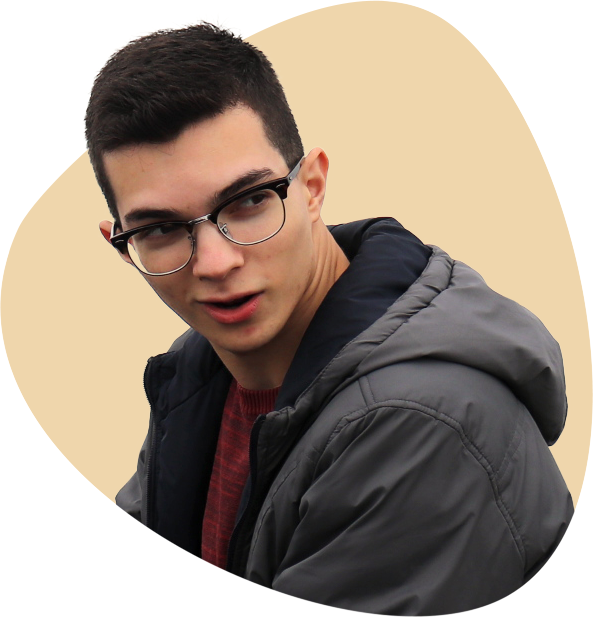
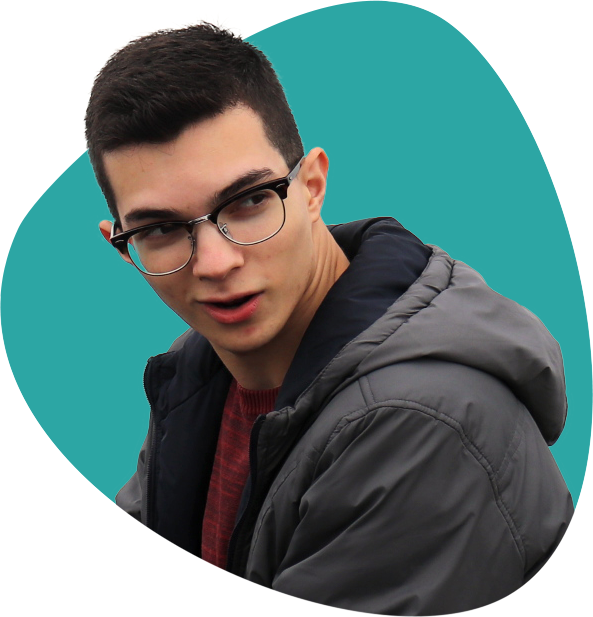
changed palette again

Changed region(s): [[0.3946, 0.0, 1.0, 0.8314], [0.0, 0.2464, 0.3339, 0.8314]]

diff --git a/css/app.css b/css/app.css
@@ -1,2 +1,2 @@
-::-webkit-scrollbar{width:7.5px}::-webkit-scrollbar-track{background:#1E212B}::-webkit-scrollbar-thumb{background:#3d4458;border-radius:100px}header .main-menu{display:flex;align-items:center;justify-content:space-between;padding:0 50px;z-index:2;background:#1E212B;width:100%;height:90px;position:fixed;top:0;transition:.2s ease}@media (max-width: 575px){header .main-menu{padding:0 30px}}@media (min-width: 992px){header .main-menu{padding:0 80px}}header .main-menu.scrolled{filter:drop-shadow(0 0 5px #191b23);height:60px;background:#191b23}header .main-menu .main-menu-left{display:flex;align-items:center;width:100%;justify-content:space-between;height:100%}header .main-menu .main-menu-left *{font-weight:700;height:100%;display:flex;align-items:center}header .main-menu .main-menu-left .main-menu-left-1{margin-right:30px}@media (min-width: 768px){header .main-menu .main-menu-left .main-menu-left-1{margin-right:80px}}header .main-menu .main-menu-left .main-menu-left-1 h1{text-align:left;line-height:1.1rem;font-size:1.2rem}header .main-menu .main-menu-left .main-menu-left-2{display:flex}header .main-menu .main-menu-left .main-menu-left-2 ul{display:flex;grid-gap:30px;font-size:.9rem}header .main-menu .main-menu-left .main-menu-left-2 ul li.active-page,header .main-menu .main-menu-left .main-menu-left-2 ul li:hover{border-top:10px solid #EFD6AC;margin-top:-10px}header .drop-down-menu{display:none;width:100%;height:100vh;position:fixed;top:90px;right:0;z-index:1;background-color:rgba(30,33,43,0.7);transition:.2s ease}header .drop-down-menu.scrolled{top:60px}header .drop-down-menu ul{background-color:#14151c}header .drop-down-menu ul li{font-weight:700;width:100%;display:flex;align-items:center;border-bottom:1px solid #1E212B}header .drop-down-menu ul li a{padding:13px 30px;height:50px;width:100%}header .drop-down-menu ul li:hover{background:#1E212B}header .drop-down-menu.open{display:block}#nav-icon1,#nav-icon2,.hamburger,#nav-icon4{width:30px;height:22.5px;position:relative;-webkit-transform:rotate(0deg);-moz-transform:rotate(0deg);-o-transform:rotate(0deg);transform:rotate(0deg);-webkit-transition:.5s ease-in-out;-moz-transition:.5s ease-in-out;-o-transition:.5s ease-in-out;transition:.5s ease-in-out;cursor:pointer}#nav-icon1 span,.hamburger span,#nav-icon4 span{display:block;position:absolute;height:4.5px;width:100%;background:#f1f1f1;border-radius:4.5px;opacity:1;left:0;-webkit-transform:rotate(0deg);-moz-transform:rotate(0deg);-o-transform:rotate(0deg);transform:rotate(0deg);-webkit-transition:.25s ease-in-out;-moz-transition:.25s ease-in-out;-o-transition:.25s ease-in-out;transition:.25s ease-in-out}.hamburger span:nth-child(1){top:0px}.hamburger span:nth-child(2),.hamburger span:nth-child(3){top:9px}.hamburger span:nth-child(4){top:18px}.hamburger.open span:nth-child(1){opacity:0}.hamburger.open span:nth-child(2){-webkit-transform:rotate(45deg);-moz-transform:rotate(45deg);-o-transform:rotate(45deg);transform:rotate(45deg)}.hamburger.open span:nth-child(3){-webkit-transform:rotate(-45deg);-moz-transform:rotate(-45deg);-o-transform:rotate(-45deg);transform:rotate(-45deg)}.hamburger.open span:nth-child(4){opacity:0}.hamburger span:nth-child(1),.hamburger span:nth-child(4){transition-delay:.2s}.hamburger.open span:nth-child(1),.hamburger.open span:nth-child(4){transition-delay:0s}footer .inner-footer{display:flex;align-items:center;justify-content:space-between;padding:0 50px;z-index:2;background:#191b23;min-height:60px;font-size:.8rem}@media (max-width: 575px){footer .inner-footer{padding:15px 30px;flex-direction:column}}@media (min-width: 768px){footer .inner-footer{font-size:.9rem}}@media (min-width: 992px){footer .inner-footer{padding:0 80px}}@media (max-width: 575px){footer .inner-footer .signature-wrap{margin-bottom:15px}}footer .inner-footer .signature-wrap #signature{opacity:.2;text-align:center}@media (min-width: 768px){footer .inner-footer .signature-wrap #signature{text-align:left}}footer .inner-footer .other-links{display:flex;flex-direction:row;grid-gap:20px}@media (min-width: 768px){footer .inner-footer .other-links{grid-gap:30px}}footer .inner-footer .other-links a img{height:30px;opacity:.2;transition:ease .2s}footer .inner-footer .other-links a img:hover{opacity:1}@media (max-width: 575px){main .section-wrapper#welcome{padding-top:0;padding-bottom:30px}}@media (min-width: 992px){main .section-wrapper#welcome{padding-top:0;padding-bottom:0}}@media (min-width: 1921px){main .section-wrapper#welcome{padding-top:80px;padding-bottom:80px}}main .section-wrapper#welcome .landing-wrapper{min-height:40vh;align-items:center;display:flex;position:relative}main .section-wrapper#welcome .landing-wrapper .bloo{color:#EFD6AC}main .section-wrapper#welcome .landing-wrapper *{text-align:left}@media (max-width: 575px){main .section-wrapper#welcome .landing-wrapper{align-items:flex-start}}@media (min-width: 992px){main .section-wrapper#welcome .landing-wrapper{height:calc(100vh - 90px)}}@media (min-width: 1921px){main .section-wrapper#welcome .landing-wrapper{height:initial}}main .section-wrapper#welcome .landing-wrapper h1#name{font-size:2rem;line-height:2rem;margin-bottom:10px}@media (min-width: 768px){main .section-wrapper#welcome .landing-wrapper h1#name{font-size:3rem;line-height:3rem}}@media (min-width: 992px){main .section-wrapper#welcome .landing-wrapper h1#name{font-size:4rem;line-height:4rem}}main .section-wrapper#welcome .landing-wrapper a#hire-me div{margin-top:20px;display:inline-block;padding:15px;border-radius:100px;background:#f1f1f1;color:#1E212B;width:120px;text-align:center;font-weight:700;position:relative}@media (min-width: 768px){main .section-wrapper#welcome .landing-wrapper a#hire-me div{padding:20px;width:150px;margin-top:40px}}main .section-wrapper#welcome .landing-wrapper a#hire-me div:hover{background:#EFD6AC}main .section-wrapper#welcome .landing-wrapper a#hire-me div:hover::after{background-color:#EFD6AC}@media (min-width: 992px){main .section-wrapper#welcome .landing-wrapper a#hire-me div::after{position:absolute;content:"";top:50%;left:50%;transform:translate(-50%, -50%);width:100%;height:100%;border-radius:100px;background-color:#f1f1f1;transition:ease;animation:hire-me 2s infinite;z-index:-1}}main .section-wrapper#welcome .landing-wrapper .img-holder{text-align:center;margin:20px 0 40px}@media (min-width: 768px){main .section-wrapper#welcome .landing-wrapper .img-holder{padding-left:40px;margin:initial;text-align:initial}}main .section-wrapper#welcome .landing-wrapper .img-holder img{max-width:80%}@media (min-width: 768px){main .section-wrapper#welcome .landing-wrapper .img-holder img{max-width:100%}}@keyframes hire-me{0%{opacity:1}50%{opacity:0;width:calc( 100% + 30px);height:calc( 100% + 30px)}100%{opacity:0;width:calc( 100% + 30px);height:calc( 100% + 30px)}}.scroll-downs{position:absolute;right:0;bottom:20px;left:0;margin:auto;width:29px;height:51px}.scroll-downs .mousey{width:3px;padding:8px 11px;height:27px;border:2px solid #1E212B;border-radius:25px;opacity:0.75;box-sizing:content-box}.scroll-downs .mousey .scroller{width:3px;height:10px;border-radius:25%;background-color:#1E212B;animation-name:scroll;animation-duration:2s;animation-timing-function:cubic-bezier(0.15, 0.41, 0.69, 0.94);animation-iteration-count:infinite}@keyframes scroll{0%{opacity:0}10%{transform:translateY(0);opacity:1}100%{transform:translateY(15px);opacity:0}}main section>h1{font-size:1.5rem;margin-bottom:10px;text-align:left;margin-bottom:30px}@media (min-width: 768px){main section>h1{font-size:2rem;margin-bottom:20px}}@media (min-width: 992px){main section>h1{font-size:2.5rem}}@media (min-width: 768px){main section>h1{margin-bottom:30px}}@media (min-width: 992px){main section>h1{margin-bottom:60px}}main section.services-megawrapper{margin:auto}main section.services-megawrapper *{text-align:left}main section.services-megawrapper .service-cards-wrapper{display:grid;grid-template-columns:repeat(1, 1fr);grid-gap:30px}@media (min-width: 768px){main section.services-megawrapper .service-cards-wrapper{grid-template-columns:repeat(2, 1fr)}}@media (min-width: 992px){main section.services-megawrapper .service-cards-wrapper{grid-template-columns:repeat(2, 1fr);grid-gap:60px}}main section.services-megawrapper .service-cards-wrapper .service-card h2{font-size:1.25rem;text-align:left;margin-bottom:20px;position:relative}@media (min-width: 768px){main section.services-megawrapper .service-cards-wrapper .service-card h2{font-size:1.5rem}}@media (min-width: 992px){main section.services-megawrapper .service-cards-wrapper .service-card h2{font-size:1.75rem}}main section.services-megawrapper .service-cards-wrapper .service-card h2::after{content:"";position:absolute;left:0;bottom:-8px;background:#EFD6AC;height:5px;width:50px}main section.services-megawrapper .service-cards-wrapper .service-card p{font-size:.8rem}@media (min-width: 768px){main section.services-megawrapper .service-cards-wrapper .service-card p{font-size:.9rem}}@media (min-width: 992px){main section.services-megawrapper .service-cards-wrapper .service-card p{font-size:1rem}}main section.services-megawrapper .service-cards-wrapper .service-card .more-work{margin-top:10px;font-weight:700;color:#EFD6AC !important;font-size:.8rem}main section.services-megawrapper .service-cards-wrapper .service-card .more-work i{font-weight:700;color:#EFD6AC !important;font-size:.8rem}.projects-grid .project-category-wrapper{margin-bottom:20px}@media (min-width: 768px){.projects-grid .project-category-wrapper{margin-bottom:30px}}@media (min-width: 992px){.projects-grid .project-category-wrapper{margin-bottom:40px}}.projects-grid .project-category-wrapper .filters{display:flex;font-weight:bold;margin-bottom:20px;margin-top:10px}.projects-grid .project-category-wrapper .filters ul{display:grid;grid-template-columns:repeat(2, 1fr);width:100%;font-size:.75rem}@media (min-width: 768px){.projects-grid .project-category-wrapper .filters ul{font-size:.8rem}}@media (min-width: 992px){.projects-grid .project-category-wrapper .filters ul{font-size:.9rem}}@media (min-width: 768px){.projects-grid .project-category-wrapper .filters ul{grid-template-columns:repeat(4, 1fr)}}.projects-grid .project-category-wrapper .filters ul li{margin-right:10px;margin-bottom:10px;padding:5px 10px;cursor:pointer;position:relative;transition:ease .5s}.projects-grid .project-category-wrapper .filters ul li::before{content:"";position:absolute;width:100%;height:3px;bottom:0;left:0;background-color:#EFD6AC;z-index:-1;transition:.3s ease}.projects-grid .project-category-wrapper .filters ul li.active-filter{color:#1E212B}.projects-grid .project-category-wrapper .filters ul li.active-filter::before{height:100%}.projects-grid .project-grid-wrapper{display:grid;grid-template-columns:repeat(1, 1fr)}@media (min-width: 768px){.projects-grid .project-grid-wrapper{grid-template-columns:repeat(2, 1fr)}}@media (min-width: 992px){.projects-grid .project-grid-wrapper{grid-template-columns:repeat(3, 1fr)}}.projects-grid .project-grid-wrapper .project-grid-card .project-image-holder{overflow:hidden;border-radius:2px}.projects-grid .project-grid-wrapper .project-grid-card .project-image-holder img{object-fit:cover;height:100%;width:100%}@media (min-width: 768px){.projects-grid .project-grid-wrapper .project-grid-card .project-image-holder img{height:200px}}@media (min-width: 992px){.projects-grid .project-grid-wrapper .project-grid-card .project-image-holder img{height:250px}}.projects-grid .project-grid-wrapper h2{text-align:left;margin-bottom:10px;font-size:.8rem}@media (min-width: 768px){.projects-grid .project-grid-wrapper h2{font-size:.9rem}}@media (min-width: 992px){.projects-grid .project-grid-wrapper h2{font-size:1rem}}.work-wrapper p{margin-bottom:10px}.work-wrapper p:last-child{margin:0}.work-wrapper .project-image-wrapper img{width:100%;object-fit:cover}@media (min-width: 768px){.work-wrapper .project-image-wrapper img{height:200px}}.work-wrapper .project-info{margin:10px 0 0}@media (min-width: 768px){.work-wrapper .project-info{margin-top:20px}}@media (min-width: 992px){.work-wrapper .project-info{margin-top:30px}}.work-wrapper .project-info .project-info-list{margin-bottom:10px}@media (min-width: 768px){.work-wrapper .project-info .project-info-list{margin-bottom:20px}}@media (min-width: 992px){.work-wrapper .project-info .project-info-list{margin-bottom:30px;padding-right:30px;margin:initial}}.work-wrapper .project-info .project-info-list ul{font-size:.8rem}@media (min-width: 768px){.work-wrapper .project-info .project-info-list ul{font-size:.9rem}}@media (min-width: 992px){.work-wrapper .project-info .project-info-list ul{font-size:1rem}}.work-wrapper .project-info .project-info-list ul li{opacity:50%}.work-wrapper .project-info .project-info-list ul li span.project-info-list-subtitle{font-weight:bold;letter-spacing:1px}.work-wrapper .project-info .project-description p:not(:last-child){margin-bottom:10px}.work-wrapper .text-wrapper p:last-child{margin-bottom:0}.work-wrapper .text-wrapper ul,.work-wrapper .text-wrapper ol{margin:0;font-size:.8rem}@media (min-width: 768px){.work-wrapper .text-wrapper ul,.work-wrapper .text-wrapper ol{font-size:.9rem}}@media (min-width: 992px){.work-wrapper .text-wrapper ul,.work-wrapper .text-wrapper ol{font-size:1rem}}.work-wrapper .image-and-caption{display:grid;justify-content:center}.work-wrapper .image-and-caption .image-grid{display:flex;justify-content:center;align-items:center}@media (min-width: 768px){.work-wrapper .image-and-caption .image-grid img{max-height:300px}}.work-wrapper .image-and-caption .image-grid video{max-width:100%;max-height:500px}@media (max-width: 575px){.work-wrapper .image-and-caption .image-grid.mobile-column{flex-flow:column}}@media (min-width: 768px){.work-wrapper .image-and-caption .image-grid.big img{max-height:500px}}@media (min-width: 768px){.work-wrapper .image-and-caption .image-grid.long img{max-width:668px;max-height:none}}.work-wrapper .image-and-caption .caption{margin-top:10px}.work-wrapper .image-and-caption .caption:not(:last-child){margin-bottom:20px}.work-wrapper .image-and-caption .caption p{text-align:center;font-style:italic;opacity:.5;margin:0}.masonry{display:flex;flex-wrap:wrap;grid-gap:20px}@media (min-width: 768px){.masonry .single-image-wrapper{flex:1 0 auto}}@media (min-width: 768px){.masonry .single-image-wrapper img{object-fit:cover;width:100%;height:300px}}.about-wrapper p{margin-bottom:20px}.about-wrapper .intro-wrapper{width:100%}.about-wrapper .intro-wrapper .icons-and-text-wrapper .text-wrapper p:not(:last-child){margin-bottom:20px}@media (min-width: 992px){.about-wrapper .intro-wrapper .icons-and-text-wrapper{padding-right:30px}}.about-wrapper .intro-wrapper .icons-and-text-wrapper .software-icons{display:flex;flex-flow:column;grid-gap:20px}.about-wrapper .intro-wrapper .icons-and-text-wrapper .software-icons .adobes,.about-wrapper .intro-wrapper .icons-and-text-wrapper .software-icons .code{display:grid;grid-template-columns:repeat(6, 1fr);grid-gap:10px}@media (min-width: 768px){.about-wrapper .intro-wrapper .icons-and-text-wrapper .software-icons .adobes,.about-wrapper .intro-wrapper .icons-and-text-wrapper .software-icons .code{width:fit-content;grid-gap:20px}}@media (min-width: 768px){.about-wrapper .intro-wrapper .icons-and-text-wrapper .software-icons .adobes img,.about-wrapper .intro-wrapper .icons-and-text-wrapper .software-icons .code img{width:60px}}.about-wrapper .intro-wrapper .img-holder{margin-top:-30px}.about-wrapper #about-academic-history .table-item,.about-wrapper #about-work-experience .table-item{margin-bottom:20px}.about-wrapper #about-academic-history .table-item:last-child,.about-wrapper #about-work-experience .table-item:last-child{margin-bottom:0}@media (min-width: 992px){.about-wrapper #about-academic-history .table-item>div,.about-wrapper #about-work-experience .table-item>div{padding-right:30px}}.about-wrapper #about-academic-history .table-item>div:not(:last-child),.about-wrapper #about-work-experience .table-item>div:not(:last-child){margin-bottom:5px}@media (min-width: 992px){.about-wrapper #about-academic-history .table-item>div:not(:last-child),.about-wrapper #about-work-experience .table-item>div:not(:last-child){margin-bottom:initial}}.about-wrapper #about-academic-history .table-item h2,.about-wrapper #about-work-experience .table-item h2{font-size:.8rem}@media (min-width: 768px){.about-wrapper #about-academic-history .table-item h2,.about-wrapper #about-work-experience .table-item h2{font-size:.9rem}}@media (min-width: 992px){.about-wrapper #about-academic-history .table-item h2,.about-wrapper #about-work-experience .table-item h2{font-size:1rem}}.about-wrapper #about-academic-history .table-item p,.about-wrapper #about-work-experience .table-item p{margin-bottom:0}.about-wrapper #about-academic-history .table-item h2.org-title,.about-wrapper #about-work-experience .table-item h2.org-title{text-align:left;font-size:.8rem;margin-bottom:0}@media (min-width: 768px){.about-wrapper #about-academic-history .table-item h2.org-title,.about-wrapper #about-work-experience .table-item h2.org-title{font-size:.9rem}}@media (min-width: 992px){.about-wrapper #about-academic-history .table-item h2.org-title,.about-wrapper #about-work-experience .table-item h2.org-title{font-size:1rem}}@media (min-width: 992px){.about-wrapper #about-academic-history .table-item h2.org-title,.about-wrapper #about-work-experience .table-item h2.org-title{margin-bottom:10px}}.about-wrapper #about-academic-history .table-item h3.org-dates,.about-wrapper #about-work-experience .table-item h3.org-dates{text-align:left;opacity:50%;font-weight:normal;font-size:.8rem}@media (min-width: 768px){.about-wrapper #about-academic-history .table-item h3.org-dates,.about-wrapper #about-work-experience .table-item h3.org-dates{font-size:.9rem}}@media (min-width: 992px){.about-wrapper #about-academic-history .table-item h3.org-dates,.about-wrapper #about-work-experience .table-item h3.org-dates{font-size:1rem}}.about-wrapper #about-academic-history .table-item h2.course-title,.about-wrapper #about-work-experience .table-item h2.course-title{margin-bottom:0px}@media (min-width: 992px){.about-wrapper #about-academic-history .table-item h2.course-title,.about-wrapper #about-work-experience .table-item h2.course-title{margin-bottom:10px}}html,body,div,span,applet,object,iframe,h1,h2,h3,h4,h5,h6,p,blockquote,pre,a,abbr,acronym,address,big,cite,code,del,dfn,em,img,ins,kbd,q,s,samp,small,strike,strong,sub,sup,tt,var,b,u,i,center,dl,dt,dd,ol,ul,li,fieldset,form,label,legend,table,caption,tbody,tfoot,thead,tr,th,td,article,aside,canvas,details,embed,figure,figcaption,footer,header,hgroup,menu,nav,output,ruby,section,summary,time,mark,audio,video{margin:0;padding:0;border:0;font-size:100%;vertical-align:baseline}article,aside,details,figcaption,figure,footer,header,hgroup,menu,nav,section{display:block}body{line-height:1}ol,ul{list-style:none}blockquote,q{quotes:none}blockquote:before,blockquote:after,q:before,q:after{content:'';content:none}table{border-collapse:collapse;border-spacing:0}*{margin:0;padding:0;font-family:'Montserrat', sans-serif;color:#f1f1f1}h1,h2,h3,h4,h5,h6{text-align:center;font-family:'Montserrat', sans-serif;font-weight:700}a,i,p{margin:0}p{text-align:justify;text-justify:inter-word;font-size:.8rem}@media (min-width: 768px){p{font-size:.9rem}}@media (min-width: 992px){p{font-size:1rem}}ul{list-style:none;margin:0}body{background:#1E212B}a,a:link,a:visited{color:#f1f1f1}body{padding-top:90px}main{min-height:calc(100vh - 90px - 60px)}.section-wrapper{padding:15px 30px;max-width:500px;margin:auto}@media (min-width: 768px){.section-wrapper{max-width:1500px;padding:20px 50px}}@media (min-width: 992px){.section-wrapper{padding:20px 80px}}.section-wrapper:not(.first-section)>h1{font-size:1.25rem;text-align:left;margin-bottom:20px;position:relative}@media (min-width: 768px){.section-wrapper:not(.first-section)>h1{font-size:1.5rem}}@media (min-width: 992px){.section-wrapper:not(.first-section)>h1{font-size:1.75rem}}.section-wrapper:not(.first-section)>h1::after{content:"";position:absolute;left:0;bottom:-8px;background:#EFD6AC;height:5px;width:50px}.section-wrapper h2{text-align:left;font-size:1rem;margin-bottom:10px}@media (min-width: 768px){.section-wrapper h2{font-size:1.1rem}}@media (min-width: 992px){.section-wrapper h2{font-size:1.3rem}}.section-wrapper.first-section{padding-top:10px}@media (min-width: 768px){.section-wrapper.first-section{padding-top:30px}}.section-wrapper.first-section>h1{font-size:1.5rem;margin-bottom:10px;text-align:left}@media (min-width: 768px){.section-wrapper.first-section>h1{font-size:2rem;margin-bottom:20px}}@media (min-width: 992px){.section-wrapper.first-section>h1{font-size:2.5rem}}.section-wrapper:last-child{padding-bottom:30px}@media (min-width: 768px){.section-wrapper:last-child{padding-bottom:50px}}@media (min-width: 992px){.section-wrapper:last-child{padding-bottom:80px}}.grid{display:grid;grid-gap:20px}@media (min-width: 768px){.grid{grid-gap:30px}}@media (min-width: 992px){.grid{grid-gap:40px}}
+::-webkit-scrollbar{width:7.5px}::-webkit-scrollbar-track{background:#1E212B}::-webkit-scrollbar-thumb{background:#3d4458;border-radius:100px}header .main-menu{display:flex;align-items:center;justify-content:space-between;padding:0 50px;z-index:2;background:#1E212B;width:100%;height:90px;position:fixed;top:0;transition:.2s ease}@media (max-width: 575px){header .main-menu{padding:0 30px}}@media (min-width: 992px){header .main-menu{padding:0 80px}}header .main-menu.scrolled{filter:drop-shadow(0 0 5px #191b23);height:60px;background:#191b23}header .main-menu .main-menu-left{display:flex;align-items:center;width:100%;justify-content:space-between;height:100%}header .main-menu .main-menu-left *{font-weight:700;height:100%;display:flex;align-items:center}header .main-menu .main-menu-left .main-menu-left-1{margin-right:30px}@media (min-width: 768px){header .main-menu .main-menu-left .main-menu-left-1{margin-right:80px}}header .main-menu .main-menu-left .main-menu-left-1 h1{text-align:left;line-height:1.1rem;font-size:1.2rem}header .main-menu .main-menu-left .main-menu-left-2{display:flex}header .main-menu .main-menu-left .main-menu-left-2 ul{display:flex;grid-gap:30px;font-size:.9rem}header .main-menu .main-menu-left .main-menu-left-2 ul li.active-page,header .main-menu .main-menu-left .main-menu-left-2 ul li:hover{border-top:10px solid #2CA6A4;margin-top:-10px}header .drop-down-menu{display:none;width:100%;height:100vh;position:fixed;top:90px;right:0;z-index:1;background-color:rgba(30,33,43,0.7);transition:.2s ease}header .drop-down-menu.scrolled{top:60px}header .drop-down-menu ul{background-color:#14151c}header .drop-down-menu ul li{font-weight:700;width:100%;display:flex;align-items:center;border-bottom:1px solid #1E212B}header .drop-down-menu ul li a{padding:13px 30px;height:50px;width:100%}header .drop-down-menu ul li:hover{background:#1E212B}header .drop-down-menu.open{display:block}#nav-icon1,#nav-icon2,.hamburger,#nav-icon4{width:30px;height:22.5px;position:relative;-webkit-transform:rotate(0deg);-moz-transform:rotate(0deg);-o-transform:rotate(0deg);transform:rotate(0deg);-webkit-transition:.5s ease-in-out;-moz-transition:.5s ease-in-out;-o-transition:.5s ease-in-out;transition:.5s ease-in-out;cursor:pointer}#nav-icon1 span,.hamburger span,#nav-icon4 span{display:block;position:absolute;height:4.5px;width:100%;background:#f1f1f1;border-radius:4.5px;opacity:1;left:0;-webkit-transform:rotate(0deg);-moz-transform:rotate(0deg);-o-transform:rotate(0deg);transform:rotate(0deg);-webkit-transition:.25s ease-in-out;-moz-transition:.25s ease-in-out;-o-transition:.25s ease-in-out;transition:.25s ease-in-out}.hamburger span:nth-child(1){top:0px}.hamburger span:nth-child(2),.hamburger span:nth-child(3){top:9px}.hamburger span:nth-child(4){top:18px}.hamburger.open span:nth-child(1){opacity:0}.hamburger.open span:nth-child(2){-webkit-transform:rotate(45deg);-moz-transform:rotate(45deg);-o-transform:rotate(45deg);transform:rotate(45deg)}.hamburger.open span:nth-child(3){-webkit-transform:rotate(-45deg);-moz-transform:rotate(-45deg);-o-transform:rotate(-45deg);transform:rotate(-45deg)}.hamburger.open span:nth-child(4){opacity:0}.hamburger span:nth-child(1),.hamburger span:nth-child(4){transition-delay:.2s}.hamburger.open span:nth-child(1),.hamburger.open span:nth-child(4){transition-delay:0s}footer .inner-footer{display:flex;align-items:center;justify-content:space-between;padding:0 50px;z-index:2;background:#191b23;min-height:60px;font-size:.8rem}@media (max-width: 575px){footer .inner-footer{padding:15px 30px;flex-direction:column}}@media (min-width: 768px){footer .inner-footer{font-size:.9rem}}@media (min-width: 992px){footer .inner-footer{padding:0 80px}}@media (max-width: 575px){footer .inner-footer .signature-wrap{margin-bottom:15px}}footer .inner-footer .signature-wrap #signature{opacity:.2;text-align:center}@media (min-width: 768px){footer .inner-footer .signature-wrap #signature{text-align:left}}footer .inner-footer .other-links{display:flex;flex-direction:row;grid-gap:20px}@media (min-width: 768px){footer .inner-footer .other-links{grid-gap:30px}}footer .inner-footer .other-links a img{height:30px;opacity:.2;transition:ease .2s}footer .inner-footer .other-links a img:hover{opacity:1}@media (max-width: 575px){main .section-wrapper#welcome{padding-top:0;padding-bottom:30px}}@media (min-width: 992px){main .section-wrapper#welcome{padding-top:0;padding-bottom:0}}@media (min-width: 1921px){main .section-wrapper#welcome{padding-top:80px;padding-bottom:80px}}main .section-wrapper#welcome .landing-wrapper{min-height:40vh;align-items:center;display:flex;position:relative}main .section-wrapper#welcome .landing-wrapper .bloo{color:#2CA6A4}main .section-wrapper#welcome .landing-wrapper *{text-align:left}@media (max-width: 575px){main .section-wrapper#welcome .landing-wrapper{align-items:flex-start}}@media (min-width: 992px){main .section-wrapper#welcome .landing-wrapper{height:calc(100vh - 90px)}}@media (min-width: 1921px){main .section-wrapper#welcome .landing-wrapper{height:initial}}main .section-wrapper#welcome .landing-wrapper h1#name{font-size:2rem;line-height:2rem;margin-bottom:10px}@media (min-width: 768px){main .section-wrapper#welcome .landing-wrapper h1#name{font-size:3rem;line-height:3rem}}@media (min-width: 992px){main .section-wrapper#welcome .landing-wrapper h1#name{font-size:4rem;line-height:4rem}}main .section-wrapper#welcome .landing-wrapper a#hire-me div{margin-top:20px;display:inline-block;padding:15px;border-radius:100px;background:#f1f1f1;color:#1E212B;width:120px;text-align:center;font-weight:700;position:relative}@media (min-width: 768px){main .section-wrapper#welcome .landing-wrapper a#hire-me div{padding:20px;width:150px;margin-top:40px}}main .section-wrapper#welcome .landing-wrapper a#hire-me div:hover{background:#2CA6A4}main .section-wrapper#welcome .landing-wrapper a#hire-me div:hover::after{background-color:#2CA6A4}@media (min-width: 992px){main .section-wrapper#welcome .landing-wrapper a#hire-me div::after{position:absolute;content:"";top:50%;left:50%;transform:translate(-50%, -50%);width:100%;height:100%;border-radius:100px;background-color:#f1f1f1;transition:ease;animation:hire-me 2s infinite;z-index:-1}}main .section-wrapper#welcome .landing-wrapper .img-holder{text-align:center;margin:20px 0 40px}@media (min-width: 768px){main .section-wrapper#welcome .landing-wrapper .img-holder{padding-left:40px;margin:initial;text-align:initial}}main .section-wrapper#welcome .landing-wrapper .img-holder img{max-width:80%}@media (min-width: 768px){main .section-wrapper#welcome .landing-wrapper .img-holder img{max-width:100%}}@keyframes hire-me{0%{opacity:1}50%{opacity:0;width:calc( 100% + 30px);height:calc( 100% + 30px)}100%{opacity:0;width:calc( 100% + 30px);height:calc( 100% + 30px)}}.scroll-downs{position:absolute;right:0;bottom:20px;left:0;margin:auto;width:29px;height:51px}.scroll-downs .mousey{width:3px;padding:8px 11px;height:27px;border:2px solid #1E212B;border-radius:25px;opacity:0.75;box-sizing:content-box}.scroll-downs .mousey .scroller{width:3px;height:10px;border-radius:25%;background-color:#1E212B;animation-name:scroll;animation-duration:2s;animation-timing-function:cubic-bezier(0.15, 0.41, 0.69, 0.94);animation-iteration-count:infinite}@keyframes scroll{0%{opacity:0}10%{transform:translateY(0);opacity:1}100%{transform:translateY(15px);opacity:0}}main section>h1{font-size:1.5rem;margin-bottom:10px;text-align:left;margin-bottom:30px}@media (min-width: 768px){main section>h1{font-size:2rem;margin-bottom:20px}}@media (min-width: 992px){main section>h1{font-size:2.5rem}}@media (min-width: 768px){main section>h1{margin-bottom:30px}}@media (min-width: 992px){main section>h1{margin-bottom:60px}}main section.services-megawrapper{margin:auto}main section.services-megawrapper *{text-align:left}main section.services-megawrapper .service-cards-wrapper{display:grid;grid-template-columns:repeat(1, 1fr);grid-gap:30px}@media (min-width: 768px){main section.services-megawrapper .service-cards-wrapper{grid-template-columns:repeat(2, 1fr)}}@media (min-width: 992px){main section.services-megawrapper .service-cards-wrapper{grid-template-columns:repeat(2, 1fr);grid-gap:60px}}main section.services-megawrapper .service-cards-wrapper .service-card h2{font-size:1.25rem;text-align:left;margin-bottom:20px;position:relative}@media (min-width: 768px){main section.services-megawrapper .service-cards-wrapper .service-card h2{font-size:1.5rem}}@media (min-width: 992px){main section.services-megawrapper .service-cards-wrapper .service-card h2{font-size:1.75rem}}main section.services-megawrapper .service-cards-wrapper .service-card h2::after{content:"";position:absolute;left:0;bottom:-8px;background:#2CA6A4;height:5px;width:50px}main section.services-megawrapper .service-cards-wrapper .service-card p{font-size:.8rem}@media (min-width: 768px){main section.services-megawrapper .service-cards-wrapper .service-card p{font-size:.9rem}}@media (min-width: 992px){main section.services-megawrapper .service-cards-wrapper .service-card p{font-size:1rem}}main section.services-megawrapper .service-cards-wrapper .service-card .more-work{margin-top:10px;font-weight:700;color:#2CA6A4 !important;font-size:.8rem}main section.services-megawrapper .service-cards-wrapper .service-card .more-work i{font-weight:700;color:#2CA6A4 !important;font-size:.8rem}.projects-grid .project-category-wrapper{margin-bottom:20px}@media (min-width: 768px){.projects-grid .project-category-wrapper{margin-bottom:30px}}@media (min-width: 992px){.projects-grid .project-category-wrapper{margin-bottom:40px}}.projects-grid .project-category-wrapper .filters{display:flex;font-weight:bold;margin-bottom:20px;margin-top:10px}.projects-grid .project-category-wrapper .filters ul{display:grid;grid-template-columns:repeat(2, 1fr);width:100%;font-size:.75rem}@media (min-width: 768px){.projects-grid .project-category-wrapper .filters ul{font-size:.8rem}}@media (min-width: 992px){.projects-grid .project-category-wrapper .filters ul{font-size:.9rem}}@media (min-width: 768px){.projects-grid .project-category-wrapper .filters ul{grid-template-columns:repeat(4, 1fr)}}.projects-grid .project-category-wrapper .filters ul li{margin-right:10px;margin-bottom:10px;padding:5px 10px;cursor:pointer;position:relative;transition:ease .5s}.projects-grid .project-category-wrapper .filters ul li::before{content:"";position:absolute;width:100%;height:3px;bottom:0;left:0;background-color:#2CA6A4;z-index:-1;transition:.3s ease}.projects-grid .project-category-wrapper .filters ul li.active-filter{color:#1E212B}.projects-grid .project-category-wrapper .filters ul li.active-filter::before{height:100%}.projects-grid .project-grid-wrapper{display:grid;grid-template-columns:repeat(1, 1fr)}@media (min-width: 768px){.projects-grid .project-grid-wrapper{grid-template-columns:repeat(2, 1fr)}}@media (min-width: 992px){.projects-grid .project-grid-wrapper{grid-template-columns:repeat(3, 1fr)}}.projects-grid .project-grid-wrapper .project-grid-card .project-image-holder{overflow:hidden;border-radius:2px}.projects-grid .project-grid-wrapper .project-grid-card .project-image-holder img{object-fit:cover;height:100%;width:100%}@media (min-width: 768px){.projects-grid .project-grid-wrapper .project-grid-card .project-image-holder img{height:200px}}@media (min-width: 992px){.projects-grid .project-grid-wrapper .project-grid-card .project-image-holder img{height:250px}}.projects-grid .project-grid-wrapper h2{text-align:left;margin-bottom:10px;font-size:.8rem}@media (min-width: 768px){.projects-grid .project-grid-wrapper h2{font-size:.9rem}}@media (min-width: 992px){.projects-grid .project-grid-wrapper h2{font-size:1rem}}.work-wrapper p{margin-bottom:10px}.work-wrapper p:last-child{margin:0}.work-wrapper .project-image-wrapper img{width:100%;object-fit:cover}@media (min-width: 768px){.work-wrapper .project-image-wrapper img{height:200px}}.work-wrapper .project-info{margin:10px 0 0}@media (min-width: 768px){.work-wrapper .project-info{margin-top:20px}}@media (min-width: 992px){.work-wrapper .project-info{margin-top:30px}}.work-wrapper .project-info .project-info-list{margin-bottom:10px}@media (min-width: 768px){.work-wrapper .project-info .project-info-list{margin-bottom:20px}}@media (min-width: 992px){.work-wrapper .project-info .project-info-list{margin-bottom:30px;padding-right:30px;margin:initial}}.work-wrapper .project-info .project-info-list ul{font-size:.8rem}@media (min-width: 768px){.work-wrapper .project-info .project-info-list ul{font-size:.9rem}}@media (min-width: 992px){.work-wrapper .project-info .project-info-list ul{font-size:1rem}}.work-wrapper .project-info .project-info-list ul li{opacity:50%}.work-wrapper .project-info .project-info-list ul li span.project-info-list-subtitle{font-weight:bold;letter-spacing:1px}.work-wrapper .project-info .project-description p:not(:last-child){margin-bottom:10px}.work-wrapper .text-wrapper p:last-child{margin-bottom:0}.work-wrapper .text-wrapper ul,.work-wrapper .text-wrapper ol{margin:0;font-size:.8rem}@media (min-width: 768px){.work-wrapper .text-wrapper ul,.work-wrapper .text-wrapper ol{font-size:.9rem}}@media (min-width: 992px){.work-wrapper .text-wrapper ul,.work-wrapper .text-wrapper ol{font-size:1rem}}.work-wrapper .image-and-caption{display:grid;justify-content:center}.work-wrapper .image-and-caption .image-grid{display:flex;justify-content:center;align-items:center}@media (min-width: 768px){.work-wrapper .image-and-caption .image-grid img{max-height:300px}}.work-wrapper .image-and-caption .image-grid video{max-width:100%;max-height:500px}@media (max-width: 575px){.work-wrapper .image-and-caption .image-grid.mobile-column{flex-flow:column}}@media (min-width: 768px){.work-wrapper .image-and-caption .image-grid.big img{max-height:500px}}@media (min-width: 768px){.work-wrapper .image-and-caption .image-grid.long img{max-width:668px;max-height:none}}.work-wrapper .image-and-caption .caption{margin-top:10px}.work-wrapper .image-and-caption .caption:not(:last-child){margin-bottom:20px}.work-wrapper .image-and-caption .caption p{text-align:center;font-style:italic;opacity:.5;margin:0}.masonry{display:flex;flex-wrap:wrap;grid-gap:20px}@media (min-width: 768px){.masonry .single-image-wrapper{flex:1 0 auto}}@media (min-width: 768px){.masonry .single-image-wrapper img{object-fit:cover;width:100%;height:300px}}.about-wrapper p{margin-bottom:20px}.about-wrapper .intro-wrapper{width:100%}.about-wrapper .intro-wrapper .icons-and-text-wrapper .text-wrapper p:not(:last-child){margin-bottom:20px}@media (min-width: 992px){.about-wrapper .intro-wrapper .icons-and-text-wrapper{padding-right:30px}}.about-wrapper .intro-wrapper .icons-and-text-wrapper .software-icons{display:flex;flex-flow:column;grid-gap:20px}.about-wrapper .intro-wrapper .icons-and-text-wrapper .software-icons .adobes,.about-wrapper .intro-wrapper .icons-and-text-wrapper .software-icons .code{display:grid;grid-template-columns:repeat(6, 1fr);grid-gap:10px}@media (min-width: 768px){.about-wrapper .intro-wrapper .icons-and-text-wrapper .software-icons .adobes,.about-wrapper .intro-wrapper .icons-and-text-wrapper .software-icons .code{width:fit-content;grid-gap:20px}}@media (min-width: 768px){.about-wrapper .intro-wrapper .icons-and-text-wrapper .software-icons .adobes img,.about-wrapper .intro-wrapper .icons-and-text-wrapper .software-icons .code img{width:60px}}.about-wrapper .intro-wrapper .img-holder{margin-top:-30px}.about-wrapper #about-academic-history .table-item,.about-wrapper #about-work-experience .table-item{margin-bottom:20px}.about-wrapper #about-academic-history .table-item:last-child,.about-wrapper #about-work-experience .table-item:last-child{margin-bottom:0}@media (min-width: 992px){.about-wrapper #about-academic-history .table-item>div,.about-wrapper #about-work-experience .table-item>div{padding-right:30px}}.about-wrapper #about-academic-history .table-item>div:not(:last-child),.about-wrapper #about-work-experience .table-item>div:not(:last-child){margin-bottom:5px}@media (min-width: 992px){.about-wrapper #about-academic-history .table-item>div:not(:last-child),.about-wrapper #about-work-experience .table-item>div:not(:last-child){margin-bottom:initial}}.about-wrapper #about-academic-history .table-item h2,.about-wrapper #about-work-experience .table-item h2{font-size:.8rem}@media (min-width: 768px){.about-wrapper #about-academic-history .table-item h2,.about-wrapper #about-work-experience .table-item h2{font-size:.9rem}}@media (min-width: 992px){.about-wrapper #about-academic-history .table-item h2,.about-wrapper #about-work-experience .table-item h2{font-size:1rem}}.about-wrapper #about-academic-history .table-item p,.about-wrapper #about-work-experience .table-item p{margin-bottom:0}.about-wrapper #about-academic-history .table-item h2.org-title,.about-wrapper #about-work-experience .table-item h2.org-title{text-align:left;font-size:.8rem;margin-bottom:0}@media (min-width: 768px){.about-wrapper #about-academic-history .table-item h2.org-title,.about-wrapper #about-work-experience .table-item h2.org-title{font-size:.9rem}}@media (min-width: 992px){.about-wrapper #about-academic-history .table-item h2.org-title,.about-wrapper #about-work-experience .table-item h2.org-title{font-size:1rem}}@media (min-width: 992px){.about-wrapper #about-academic-history .table-item h2.org-title,.about-wrapper #about-work-experience .table-item h2.org-title{margin-bottom:10px}}.about-wrapper #about-academic-history .table-item h3.org-dates,.about-wrapper #about-work-experience .table-item h3.org-dates{text-align:left;opacity:50%;font-weight:normal;font-size:.8rem}@media (min-width: 768px){.about-wrapper #about-academic-history .table-item h3.org-dates,.about-wrapper #about-work-experience .table-item h3.org-dates{font-size:.9rem}}@media (min-width: 992px){.about-wrapper #about-academic-history .table-item h3.org-dates,.about-wrapper #about-work-experience .table-item h3.org-dates{font-size:1rem}}.about-wrapper #about-academic-history .table-item h2.course-title,.about-wrapper #about-work-experience .table-item h2.course-title{margin-bottom:0px}@media (min-width: 992px){.about-wrapper #about-academic-history .table-item h2.course-title,.about-wrapper #about-work-experience .table-item h2.course-title{margin-bottom:10px}}html,body,div,span,applet,object,iframe,h1,h2,h3,h4,h5,h6,p,blockquote,pre,a,abbr,acronym,address,big,cite,code,del,dfn,em,img,ins,kbd,q,s,samp,small,strike,strong,sub,sup,tt,var,b,u,i,center,dl,dt,dd,ol,ul,li,fieldset,form,label,legend,table,caption,tbody,tfoot,thead,tr,th,td,article,aside,canvas,details,embed,figure,figcaption,footer,header,hgroup,menu,nav,output,ruby,section,summary,time,mark,audio,video{margin:0;padding:0;border:0;font-size:100%;vertical-align:baseline}article,aside,details,figcaption,figure,footer,header,hgroup,menu,nav,section{display:block}body{line-height:1}ol,ul{list-style:none}blockquote,q{quotes:none}blockquote:before,blockquote:after,q:before,q:after{content:'';content:none}table{border-collapse:collapse;border-spacing:0}*{margin:0;padding:0;font-family:'Montserrat', sans-serif;color:#f1f1f1}h1,h2,h3,h4,h5,h6{text-align:center;font-family:'Montserrat', sans-serif;font-weight:700}a,i,p{margin:0}p{text-align:justify;text-justify:inter-word;font-size:.8rem}@media (min-width: 768px){p{font-size:.9rem}}@media (min-width: 992px){p{font-size:1rem}}ul{list-style:none;margin:0}body{background:#1E212B}a,a:link,a:visited{color:#f1f1f1}body{padding-top:90px}main{min-height:calc(100vh - 90px - 60px)}.section-wrapper{padding:15px 30px;max-width:500px;margin:auto}@media (min-width: 768px){.section-wrapper{max-width:1500px;padding:20px 50px}}@media (min-width: 992px){.section-wrapper{padding:20px 80px}}.section-wrapper:not(.first-section)>h1{font-size:1.25rem;text-align:left;margin-bottom:20px;position:relative}@media (min-width: 768px){.section-wrapper:not(.first-section)>h1{font-size:1.5rem}}@media (min-width: 992px){.section-wrapper:not(.first-section)>h1{font-size:1.75rem}}.section-wrapper:not(.first-section)>h1::after{content:"";position:absolute;left:0;bottom:-8px;background:#2CA6A4;height:5px;width:50px}.section-wrapper h2{text-align:left;font-size:1rem;margin-bottom:10px}@media (min-width: 768px){.section-wrapper h2{font-size:1.1rem}}@media (min-width: 992px){.section-wrapper h2{font-size:1.3rem}}.section-wrapper.first-section{padding-top:10px}@media (min-width: 768px){.section-wrapper.first-section{padding-top:30px}}.section-wrapper.first-section>h1{font-size:1.5rem;margin-bottom:10px;text-align:left}@media (min-width: 768px){.section-wrapper.first-section>h1{font-size:2rem;margin-bottom:20px}}@media (min-width: 992px){.section-wrapper.first-section>h1{font-size:2.5rem}}.section-wrapper:last-child{padding-bottom:30px}@media (min-width: 768px){.section-wrapper:last-child{padding-bottom:50px}}@media (min-width: 992px){.section-wrapper:last-child{padding-bottom:80px}}.grid{display:grid;grid-gap:20px}@media (min-width: 768px){.grid{grid-gap:30px}}@media (min-width: 992px){.grid{grid-gap:40px}}
 /*# sourceMappingURL=app.css.map */

diff --git a/scss/_variables-and-mixins.scss b/scss/_variables-and-mixins.scss
@@ -3,7 +3,7 @@
 $bg-color: #1E212B;
 $text-color: #f1f1f1;
 
-$bloo: #EFD6AC;
+$bloo: #2CA6A4;
 
 $main-menu-height: 90px;
 $main-menu-height-scrolled: 70px;
